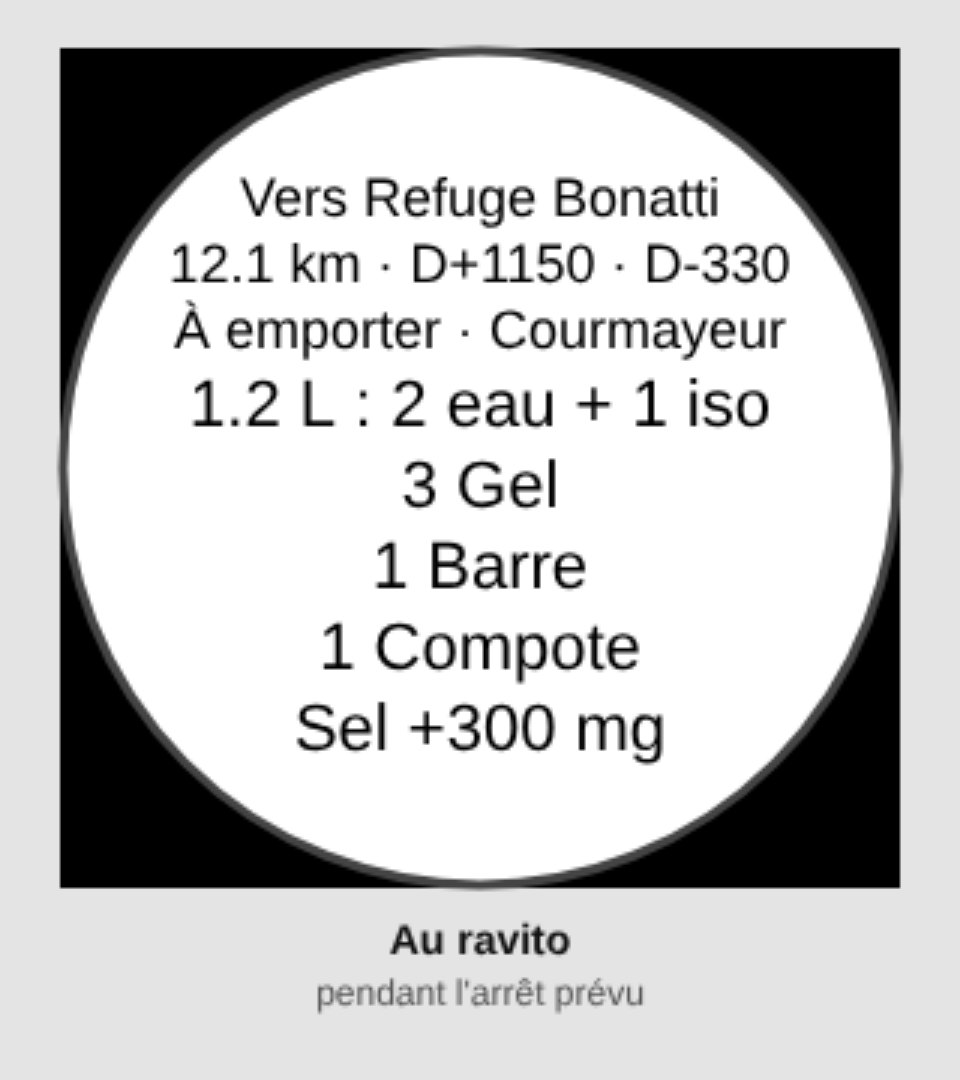
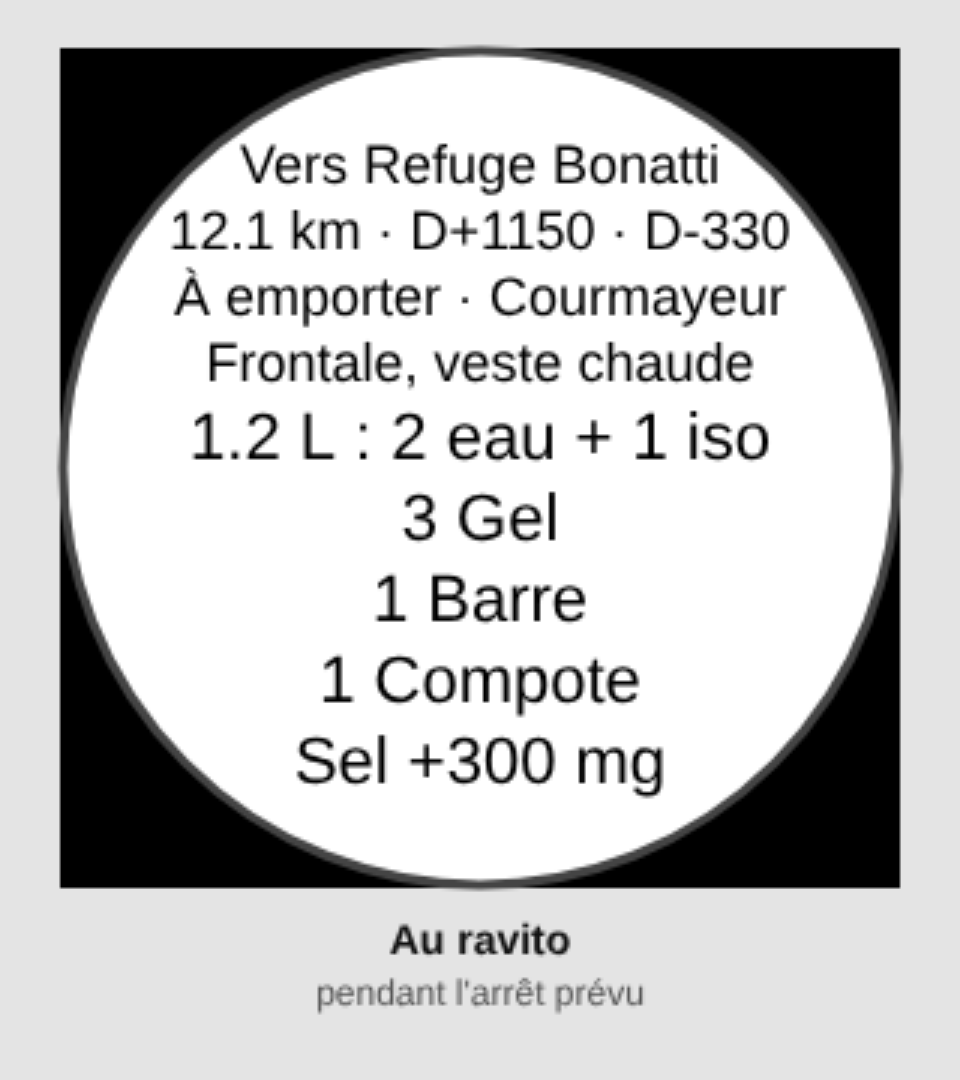
Montre : point suivant fiable, barrières hors jour de course, sac du départ et notes
- Tour Lap : avec le GPS calé, un point devant n'est validé qu'à 150 m au plus
  (un tour 300 m avant la buvette la validait : le Sommet devenait le prochain
  point avec l'heure estimée de la buvette). Tout passage, tour ou position,
  est annulé si le GPS calé place ensuite le coureur à plus de 200 m avant.
- Barrières : le plan donne le départ prévu (ligne S) ; activité partie à plus
  de 6 h de lui, barrières décalées d'autant (fini « Hors délai -884h41 »).
- Écran de départ : avec quoi partir (sac du premier tronçon).
- Notes des points (ligne C) : sous « À emporter » au ravito ; écran du point et
  de sa note au passage d'un point sans sac.
- Captures simulées : écran de départ ajouté, note au ravito.

Claude-Session: https://claude.ai/code/session_01NSBNchBWugwNeV2LN2Yo7P

Changed region(s): [[0.1875, 0.1222, 0.8438, 0.7639]]

diff --git a/src/lib/watch.ts b/src/lib/watch.ts
@@ -3,10 +3,12 @@
 //
 //   TP1
 //   N|<nom de la course>
-//   S|<départ prévu, s Unix>|<distance totale, m>|<rappel nutrition, min>|<c = course, p = parcours>|<D+ m>|<D− m>
+//   S|<départ prévu, s Unix>|<distance totale, m>|<rappel nutrition, min>|<c = course, p = parcours>|<D+ m>|<D− m>|<départ de référence>
+//                          départ de référence : départ prévu (s Unix) même en départ libre ; la montre y
+//                          rapporte les barrières quand l'activité part un autre jour (entraînement, simulateur)
 //   K|<d>:<t>,<d>:<t>,…    courbe distance (m) → temps de déplacement prévu (s, arrêts exclus),
 //                          simplifiée à ±45 s près (points là où l'allure change)
-//   C|<dist m>|<prévu s>|<barrière s Unix ou 0>|<type r/s/c/i>|<nom>|<arrêt s>   (un par point)
+//   C|<dist m>|<prévu s>|<barrière s Unix ou 0>|<type r/s/c/i>|<nom>|<arrêt s>|<note>   (un par point)
 //   P|<produit>|<produit>|…   noms des produits du plan nutrition (gels, barres…)
 //   F|<point de départ>|<point d'arrivée>|<eau dL>|<sel mg>|<p>,<p>,…
 //                          un par tronçon entre ravitos (indices des lignes C, −1 = départ) : sac
@@ -86,7 +88,9 @@ export function fuelInterval(race: Race, athlete: Athlete): number {
 
 export function watchPlan(race: Race, athlete: Athlete, track: Track, sim: SimResult): string {
   // Départ libre : 0 (la montre affiche « Départ libre » ; l'écart au plan part du vrai départ).
-  const start = isFreeStart(race) ? 0 : Math.round(zonedToUtc(race.env.start, race.env.timeZone).getTime() / 1000)
+  const planned = Math.round(zonedToUtc(race.env.start, race.env.timeZone).getTime() / 1000)
+  const ref = Number.isFinite(planned) ? planned : 0
+  const start = isFreeStart(race) ? 0 : ref
   // Arrêts cumulés avant une distance (un point situé exactement à d n'est pas compté).
   const stops = sim.splits.map((s) => ({ dist: s.to, stop: s.cp.stopMin * 60 }))
   const stopsBefore = (d: number) => stops.reduce((a, s) => a + (s.dist < d ? s.stop : 0), 0)
@@ -98,11 +102,11 @@ export function watchPlan(race: Race, athlete: Athlete, track: Track, sim: SimRe
   const lines = [
     'TP1',
     `N|${clean(race.name, 24)}`,
-    `S|${start}|${Math.round(track.totalDist)}|${fuelInterval(race, athlete)}|${kind}|${Math.round(track.dPlus)}|${Math.round(track.dMinus)}`,
+    `S|${start}|${Math.round(track.totalDist)}|${fuelInterval(race, athlete)}|${kind}|${Math.round(track.dPlus)}|${Math.round(track.dMinus)}|${ref}`,
     `K|${K}`,
     ...sim.splits.map((s) => {
       const cut = s.cp.cutoff ? Math.round(zonedToUtc(s.cp.cutoff, race.env.timeZone).getTime() / 1000) : 0
-      return `C|${Math.round(s.to)}|${Math.round(s.arrival)}|${Number.isFinite(cut) ? cut : 0}|${KIND[s.cp.kind] ?? 'i'}|${pointName(s.cp.name)}|${Math.round(s.cp.stopMin * 60)}`
+      return `C|${Math.round(s.to)}|${Math.round(s.arrival)}|${Number.isFinite(cut) ? cut : 0}|${KIND[s.cp.kind] ?? 'i'}|${pointName(s.cp.name)}|${Math.round(s.cp.stopMin * 60)}|${clean((s.cp.notes ?? '').replace(/[|\s]+/g, ' '), 40)}`
     }),
     ...foodLines(nutritionPlan(race, sim, athlete.products), sim.splits),
   ]

diff --git a/src/lib/__tests__/watch.test.ts b/src/lib/__tests__/watch.test.ts
@@ -15,13 +15,17 @@ function gpx(): string {
 describe('plan montre', () => {
   it('format compact lisible ligne par ligne', () => {
     const race = newRace('Trail | test\nlong nom de course très long', gpx())
-    race.checkpoints = [{ id: 'a', dist: 10000, name: 'Col|du Bonhomme', kind: 'ravito', stopMin: 3, cutoff: '2026-06-06T09:00', water: 0, carbs: 0, notes: '', auto: false }]
+    race.checkpoints = [{ id: 'a', dist: 10000, name: 'Col|du Bonhomme', kind: 'ravito', stopMin: 3, cutoff: '2026-06-06T09:00', water: 0, carbs: 0, notes: 'Frontale | veste\nchaude', auto: false }]
     const plan = computePlan(race, DEFAULT_ATHLETE)!
     const w = watchPlan(race, DEFAULT_ATHLETE, plan.track, plan.sim)
     const lines = w.split('\n')
     expect(lines[0]).toBe('TP1')
     expect(lines[1]).toBe('N|Trail   test long nom de')
-    const [, start, total, fuel, kind, up, down] = lines[2].split('|')
+    const [, start, total, fuel, kind, up, down, ref] = lines[2].split('|')
+    // Départ de référence des barrières : départ prévu, même en départ libre.
+    expect(Number(ref)).toBe(Date.parse('2026-06-06T04:00:00Z') / 1000)
+    const free = watchPlan({ ...race, freeStart: true }, DEFAULT_ATHLETE, plan.track, plan.sim).split('\n')[2].split('|')
+    expect([free[1], free[7]]).toEqual(['0', ref])
     expect(Number(start)).toBe(Date.parse('2026-06-06T04:00:00Z') / 1000)
     expect(Number(total)).toBeCloseTo(plan.track.totalDist, -1)
     expect(Number(fuel)).toBe(25)
@@ -34,9 +38,9 @@ describe('plan montre', () => {
     expect(K.every(([d, t], i) => i === 0 || (d > K[i - 1][0] && t >= K[i - 1][1]))).toBe(true)
     expect(K.length).toBeLessThan(40)
     const c = lines[4].split('|')
-    expect(c).toEqual(['C', '10000', String(Math.round(plan.sim.splits[0].arrival)), String(Date.parse('2026-06-06T07:00:00Z') / 1000), 'r', 'Col du Bonhomme', '180'])
+    expect(c).toEqual(['C', '10000', String(Math.round(plan.sim.splits[0].arrival)), String(Date.parse('2026-06-06T07:00:00Z') / 1000), 'r', 'Col du Bonhomme', '180', 'Frontale veste chaude'])
     const C = lines.filter((l) => l.startsWith('C|'))
-    expect(C[C.length - 1]).toMatch(/^C\|\d+\|\d+\|0\|i\|Arrivée\|0$/)
+    expect(C[C.length - 1]).toMatch(/^C\|\d+\|\d+\|0\|i\|Arrivée\|0\|$/)
     expect(lines[lines.length - 2]).toMatch(/^E\|/)
     expect(lines[lines.length - 1]).toMatch(/^G\|/)
     expect(fuelInterval({ ...race, carbsPerH: 90 }, DEFAULT_ATHLETE)).toBe(17)

diff --git a/src/lib/__tests__/watchappsdoc.test.ts b/src/lib/__tests__/watchappsdoc.test.ts
@@ -16,7 +16,7 @@ describe('page « Applications Garmin » modifiable sur GitHub', () => {
     expect(() => readFileSync(`public/montre/${tp.image}`)).not.toThrow()
     // Galerie des captures en course : cinq images, toutes présentes dans le dossier.
     const gallery = tp.body.map(galleryImages).find(Boolean)!
-    expect(gallery.map((g) => g.alt)).toEqual(['Sur le parcours', 'Entrée de ravito', 'Passage validé', 'Au ravito', 'Alerte nourriture'])
+    expect(gallery.map((g) => g.alt)).toEqual(['Avant le départ', 'Sur le parcours', 'Entrée de ravito', 'Passage validé', 'Au ravito', 'Alerte nourriture'])
     for (const g of gallery) expect(() => readFileSync(`public/montre/${g.src}`)).not.toThrow()
     // Texte mêlé d'une image : pas une galerie.
     expect(galleryImages({ kind: 'p', parts: parseInline('un ![écran](a.png)') })).toBeNull()

diff --git a/src/lib/__tests__/basevie.test.ts b/src/lib/__tests__/basevie.test.ts
@@ -33,7 +33,7 @@ describe('base de vie et dropbag', () => {
     expect(defaultStop('base')).toBe(20)
     expect(isRavitoKind('base') && isRavitoKind('ravito') && !isRavitoKind('split')).toBe(true)
     expect(assistAllowed(race.checkpoints[2])).toBe(true)
-    expect(watchPlan(race, A, plan.track, plan.sim).split('\n').find((l) => l.startsWith('C|20000'))).toMatch(/\|r\|BV km 20.0\|1200$/)
+    expect(watchPlan(race, A, plan.track, plan.sim).split('\n').find((l) => l.startsWith('C|20000'))).toMatch(/\|r\|BV km 20.0\|1200\|$/)
     const legs = nutritionPlan(race, plan.sim, A.products)
     expect(legs.map((l) => l.to)).toEqual(['Ravito km 8.0', 'Ravito km 16.0', 'Base de vie km 20.0', 'Ravito km 30.0', 'Arrivée'])
     expect(waypointKind({ name: 'Base de vie de Courmayeur' }, 'race')).toBe('base')

diff --git a/garmin/README.md b/garmin/README.md
@@ -18,7 +18,10 @@ ClimbPro et PacePro continuent de fonctionner) :
   quantité réelle et en flasques de 500 ml (« 1.1 L : 2 eau + 1 iso », l'isotonique n'étant alors plus
   répété dans les produits) ;
 - avant le départ : nom, distance, D+ et temps prévu ; heure de départ pour une **course** seulement
-  (« Départ libre » si elle est en départ libre), aucune heure pour un **parcours d'entraînement** ;
+  (« Départ libre » si elle est en départ libre), aucune heure pour un **parcours d'entraînement** ; **avec
+  quoi partir** (sac du premier tronçon : eau en flasques, produits, sel ; une seule ligne sur un petit champ) ;
+- **note du point** (« frontale, veste… », colonne Notes du plan) : sur l'écran du ravito, sous « À emporter » ;
+  à un point sans sac, écran du nom du point et de sa note au passage ;
 - **suivi pour l'assistance** : passages réels, position et batterie envoyés toutes les 5 min via ton
   téléphone ; ils s'affichent sur le lien assistance de la course (position sur le profil, écart au plan,
   heures estimées recalculées).
@@ -64,10 +67,15 @@ Avant le premier passage, estimé = prévu. L'écart au plan (`+6'`), lui, suit 
 règle dans le mode course de l'app ; le lien assistance, lui, recalcule les estimations à chaque relevé de
 la montre (position et rythme réel) et ignore un passage noté à plus de 300 m devant ta position.
 
-**Bouton Lap.** Un tour valide le passage au point le plus proche pas encore validé, à moins de 300 m de ta
-position (500 m si le tracé GPS n'est pas calé ou si le plan n'a pas de tracé) ; un tour loin de tout point
-est ignoré. Un passage validé par un tour est annulé si le GPS, une fois calé sur le tracé, te place à plus de
-300 m avant le point : il sera détecté de nouveau en y arrivant.
+**Bouton Lap.** Un tour valide le passage au point le plus proche pas encore validé : avec le GPS calé sur le
+tracé, à 150 m au plus devant toi ou 300 m derrière (500 m dans les deux sens si le tracé n'est pas calé ou si
+le plan n'a pas de tracé) ; un tour loin de tout point est ignoré. Un passage (tour ou position) est annulé si
+le GPS calé te place ensuite à plus de 200 m avant le point : il sera détecté de nouveau en y arrivant.
+
+**Barrières horaires hors du jour de course.** Le plan donne aussi le départ prévu ; si l'activité démarre à
+plus de 6 h de lui (entraînement sur le parcours, départ libre, simulateur), les barrières sont décalées
+d'autant au lieu d'afficher un « Hors délai » de plusieurs centaines d'heures. Le jour de la course, elles
+restent aux heures fixées.
 **Désactive le tour automatique (Auto Lap)** de ton activité Trail, sinon un tour auto tombant près d'un
 point le validerait. Réglage « Tour = passage au point » sur la montre (appui long › Champs Connect IQ ›
 Trail Planner) pour couper cette fonction.

diff --git a/public/montre/applications.md b/public/montre/applications.md
@@ -36,6 +36,7 @@ Ton plan de course au poignet :
 
 En course (captures simulées sur Enduro 3) :
 
+![Avant le départ](ecran-0-depart.png)
 ![Sur le parcours](ecran-1-sur-le-parcours.png)
 ![Entrée de ravito](ecran-2-entree-de-ravito.png)
 ![Passage validé](ecran-3-passage-valide.png)
